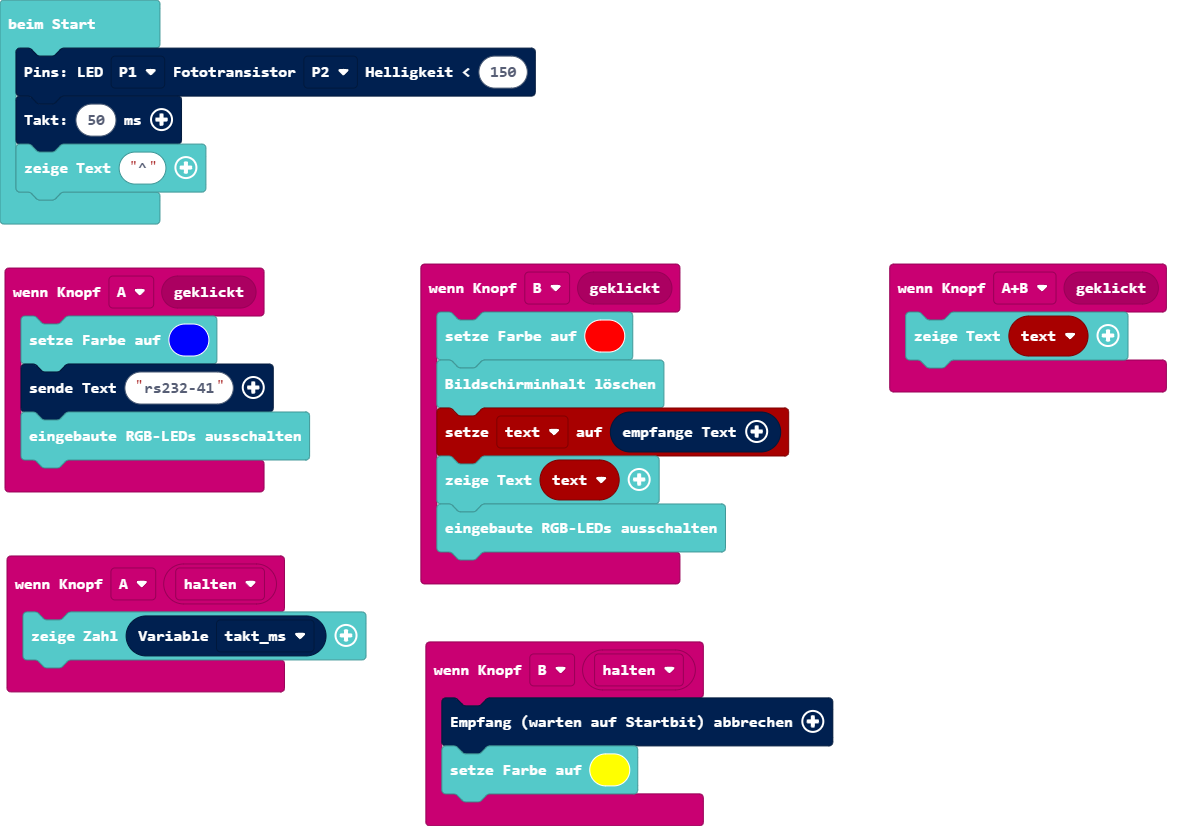
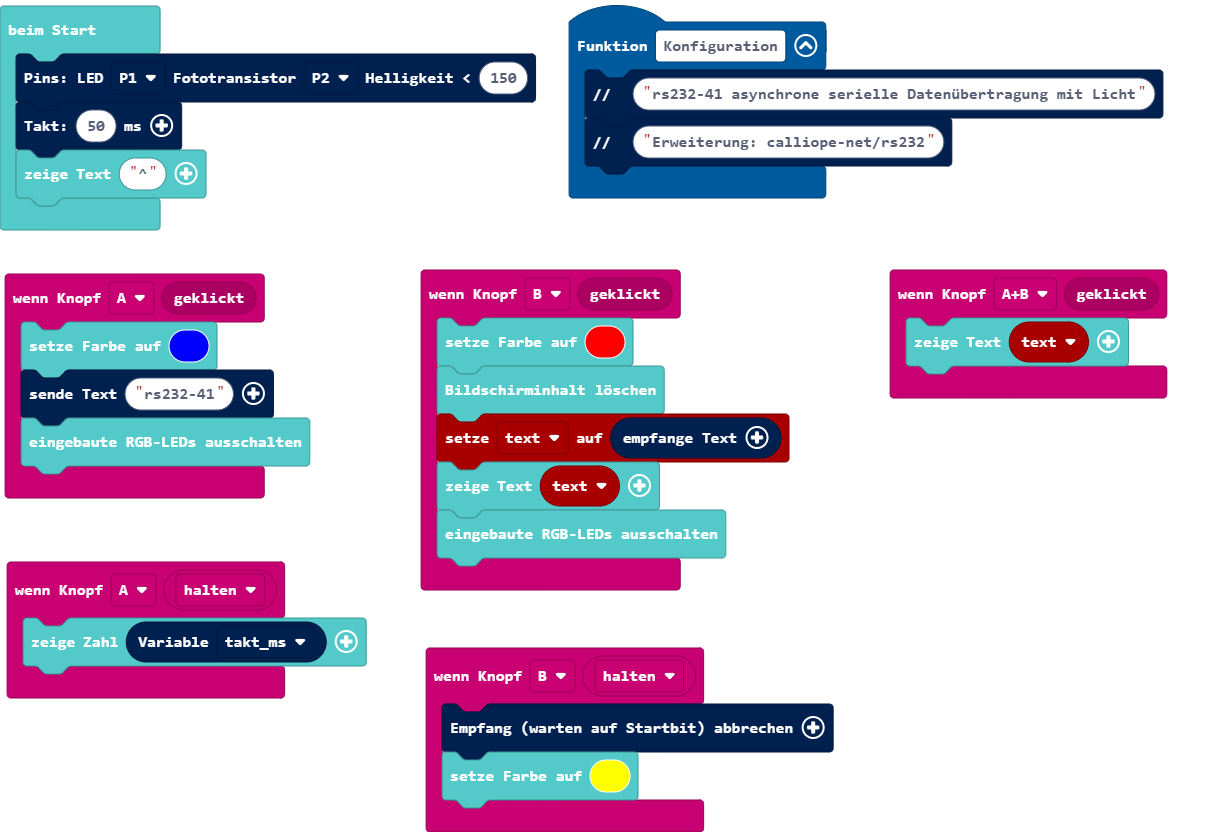
Aktualisiere main.blocks, main.ts

diff --git a/main.ts b/main.ts
@@ -20,6 +20,10 @@ input.onButtonEvent(Button.B, ButtonEvent.Hold, function () {
     rs232.empfangAbbrechen()
     basic.setLedColor(0xffff00)
 })
+function Konfiguration () {
+    rs232.comment("rs232-41 asynchrone serielle Datenübertragung mit Licht")
+    rs232.comment("Erweiterung: calliope-net/rs232")
+}
 let text = ""
 rs232.setPins(DigitalPin.P1, AnalogPin.P2, 150)
 rs232.setTakt(50)
